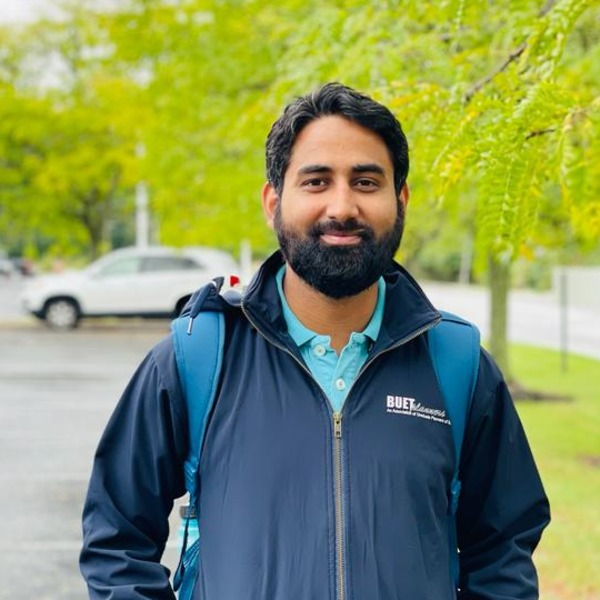
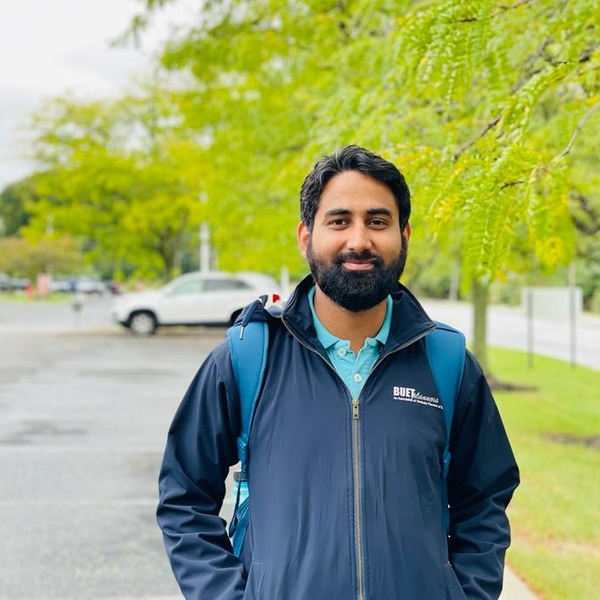
Use one site-wide font and loosen the profile crop
Load Source Sans 3 everywhere and show more breathing room in the portrait.

diff --git a/experience.html b/experience.html
@@ -1,4 +1,4 @@
-<!doctype html><html lang="en"><head><meta charset="utf-8"><meta name="viewport" content="width=device-width,initial-scale=1"><meta name="description" content="Academic, research, GIS, and planning experience of Muhammad Taky Tahmid."><title>Professional Experience | Muhammad Taky Tahmid</title><link rel="stylesheet" href="css/style.css"></head><body><a class="skip" href="#content">Skip to content</a><header class="site-header"><nav class="nav wrap" aria-label="Primary navigation">
+<!doctype html><html lang="en"><head><meta charset="utf-8"><meta name="viewport" content="width=device-width,initial-scale=1"><meta name="description" content="Academic, research, GIS, and planning experience of Muhammad Taky Tahmid."><title>Professional Experience | Muhammad Taky Tahmid</title><link rel="preconnect" href="https://fonts.googleapis.com"><link rel="preconnect" href="https://fonts.gstatic.com" crossorigin><link href="https://fonts.googleapis.com/css2?family=Source+Sans+3:ital,wght@0,400;0,600;0,700;1,400&display=swap" rel="stylesheet"><link rel="stylesheet" href="css/style.css"></head><body><a class="skip" href="#content">Skip to content</a><header class="site-header"><nav class="nav wrap" aria-label="Primary navigation">
   <a class="site-name" href="index.html">Muhammad Taky Tahmid</a>
   <button class="nav-toggle" type="button" aria-expanded="false" aria-controls="nav-links">Menu</button>
   <ul id="nav-links">

diff --git a/teaching.html b/teaching.html
@@ -1,4 +1,4 @@
-<!doctype html><html lang="en"><head><meta charset="utf-8"><meta name="viewport" content="width=device-width,initial-scale=1"><meta name="description" content="Teaching experience and instructional resources developed by Muhammad Taky Tahmid."><title>Teaching | Muhammad Taky Tahmid</title><link rel="stylesheet" href="css/style.css"></head><body><a class="skip" href="#content">Skip to content</a><header class="site-header"><nav class="nav wrap" aria-label="Primary navigation">
+<!doctype html><html lang="en"><head><meta charset="utf-8"><meta name="viewport" content="width=device-width,initial-scale=1"><meta name="description" content="Teaching experience and instructional resources developed by Muhammad Taky Tahmid."><title>Teaching | Muhammad Taky Tahmid</title><link rel="preconnect" href="https://fonts.googleapis.com"><link rel="preconnect" href="https://fonts.gstatic.com" crossorigin><link href="https://fonts.googleapis.com/css2?family=Source+Sans+3:ital,wght@0,400;0,600;0,700;1,400&display=swap" rel="stylesheet"><link rel="stylesheet" href="css/style.css"></head><body><a class="skip" href="#content">Skip to content</a><header class="site-header"><nav class="nav wrap" aria-label="Primary navigation">
   <a class="site-name" href="index.html">Muhammad Taky Tahmid</a>
   <button class="nav-toggle" type="button" aria-expanded="false" aria-controls="nav-links">Menu</button>
   <ul id="nav-links">

diff --git a/css/style.css b/css/style.css
@@ -6,9 +6,9 @@
   --rule:#d9dde1;
   --soft:#f7f8f9;
   --max:1140px;
-  --font:-apple-system,BlinkMacSystemFont,"Segoe UI",Roboto,Helvetica,Arial,sans-serif;
+  --font:"Source Sans 3",-apple-system,BlinkMacSystemFont,"Segoe UI",Helvetica,Arial,sans-serif;
 }
-*{box-sizing:border-box}
+*{box-sizing:border-box;font-family:var(--font)}
 html{scroll-behavior:smooth}
 body{
   margin:0;
@@ -17,6 +17,7 @@ body{
   font-family:var(--font);
   font-size:16.5px;
   line-height:1.65;
+  -webkit-font-smoothing:antialiased;
 }
 a{color:var(--link);text-underline-offset:3px;text-decoration-thickness:1px}
 a:hover{text-decoration-thickness:2px}
@@ -78,18 +79,19 @@ h1,h2,h3{
   font-family:var(--font);
   line-height:1.3;
   color:#202326;
+  font-style:normal;
 }
 h1{
   font-weight:650;
-  font-size:1.72rem;
-  margin:0 0 20px;
+  font-size:1.55rem;
+  margin:0 0 18px;
   padding-bottom:10px;
   border-bottom:1px solid var(--rule);
 }
 h2{font-size:1.12rem;font-weight:650;margin:34px 0 12px}
-h3{font-size:1rem;margin:0 0 5px;font-weight:650}
-p{margin:0 0 15px}
-.lead{font-size:1.05rem;line-height:1.65;color:#30353a}
+h3{font-size:1.02rem;margin:0 0 5px;font-weight:650}
+p{margin:0 0 15px;font-family:var(--font)}
+.lead{font-size:1.05rem;line-height:1.65;color:#30353a;font-family:var(--font);font-weight:400}
 .muted,.meta{color:var(--muted)}
 .meta{font-size:.88rem;margin:-1px 0 8px}
 

diff --git a/index.html b/index.html
@@ -5,6 +5,9 @@
   <meta name="viewport" content="width=device-width,initial-scale=1">
   <meta name="description" content="Muhammad Taky Tahmid is a PhD candidate in Environmental Economics at the University of Delaware.">
   <title>Muhammad Taky Tahmid | Environmental Economist</title>
+  <link rel="preconnect" href="https://fonts.googleapis.com">
+  <link rel="preconnect" href="https://fonts.gstatic.com" crossorigin>
+  <link href="https://fonts.googleapis.com/css2?family=Source+Sans+3:ital,wght@0,400;0,600;0,700;1,400&display=swap" rel="stylesheet">
   <link rel="stylesheet" href="css/style.css">
 </head>
 <body>

diff --git a/research.html b/research.html
@@ -5,6 +5,9 @@
   <meta name="viewport" content="width=device-width,initial-scale=1">
   <meta name="description" content="Research by Muhammad Taky Tahmid in climate, agriculture, food security, and environmental economics.">
   <title>Research | Muhammad Taky Tahmid</title>
+  <link rel="preconnect" href="https://fonts.googleapis.com">
+  <link rel="preconnect" href="https://fonts.gstatic.com" crossorigin>
+  <link href="https://fonts.googleapis.com/css2?family=Source+Sans+3:ital,wght@0,400;0,600;0,700;1,400&display=swap" rel="stylesheet">
   <link rel="stylesheet" href="css/style.css">
 </head>
 <body>
